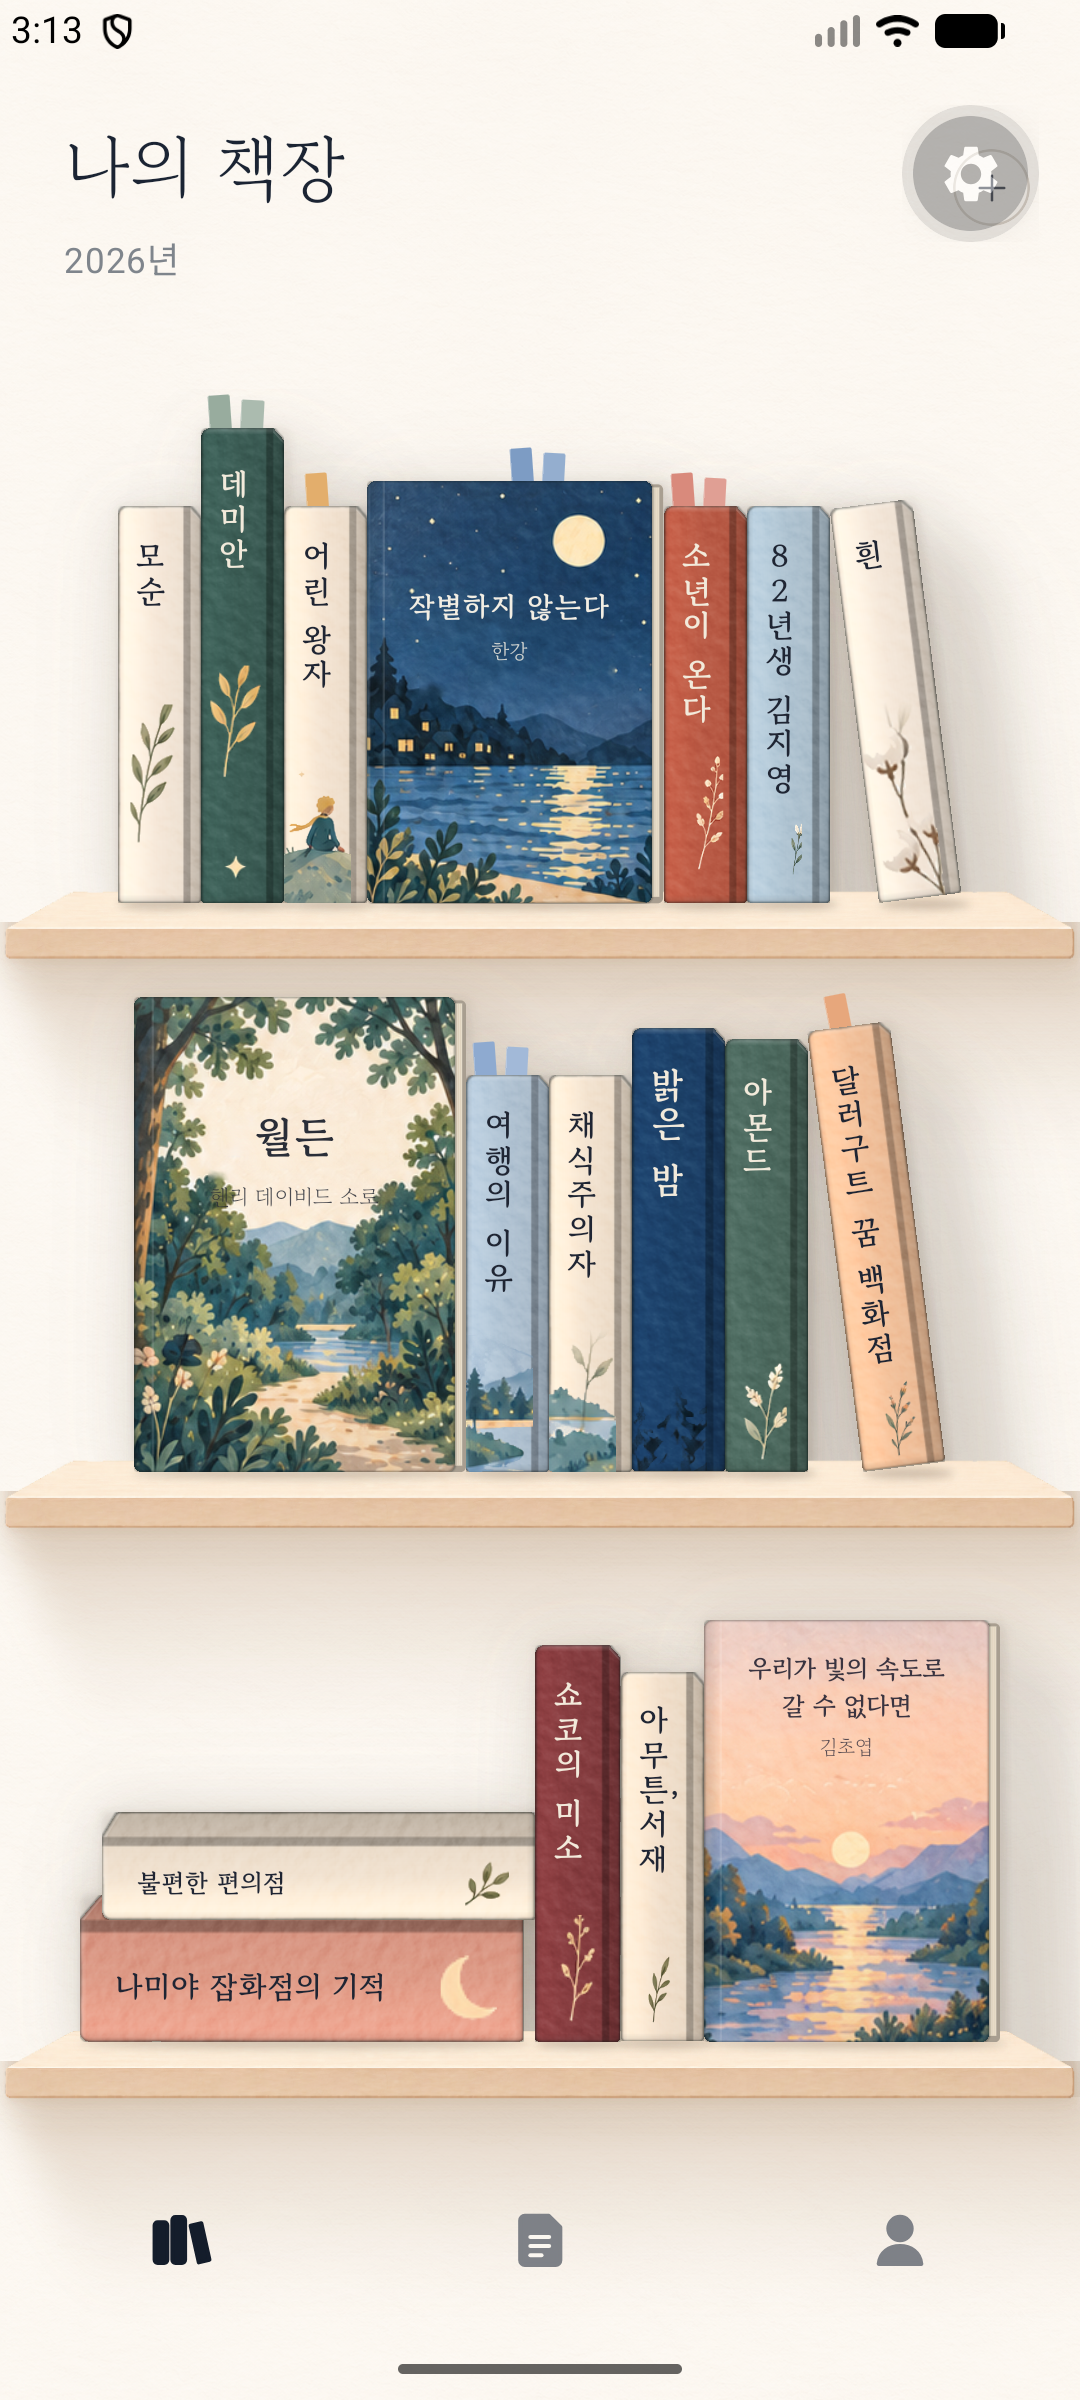
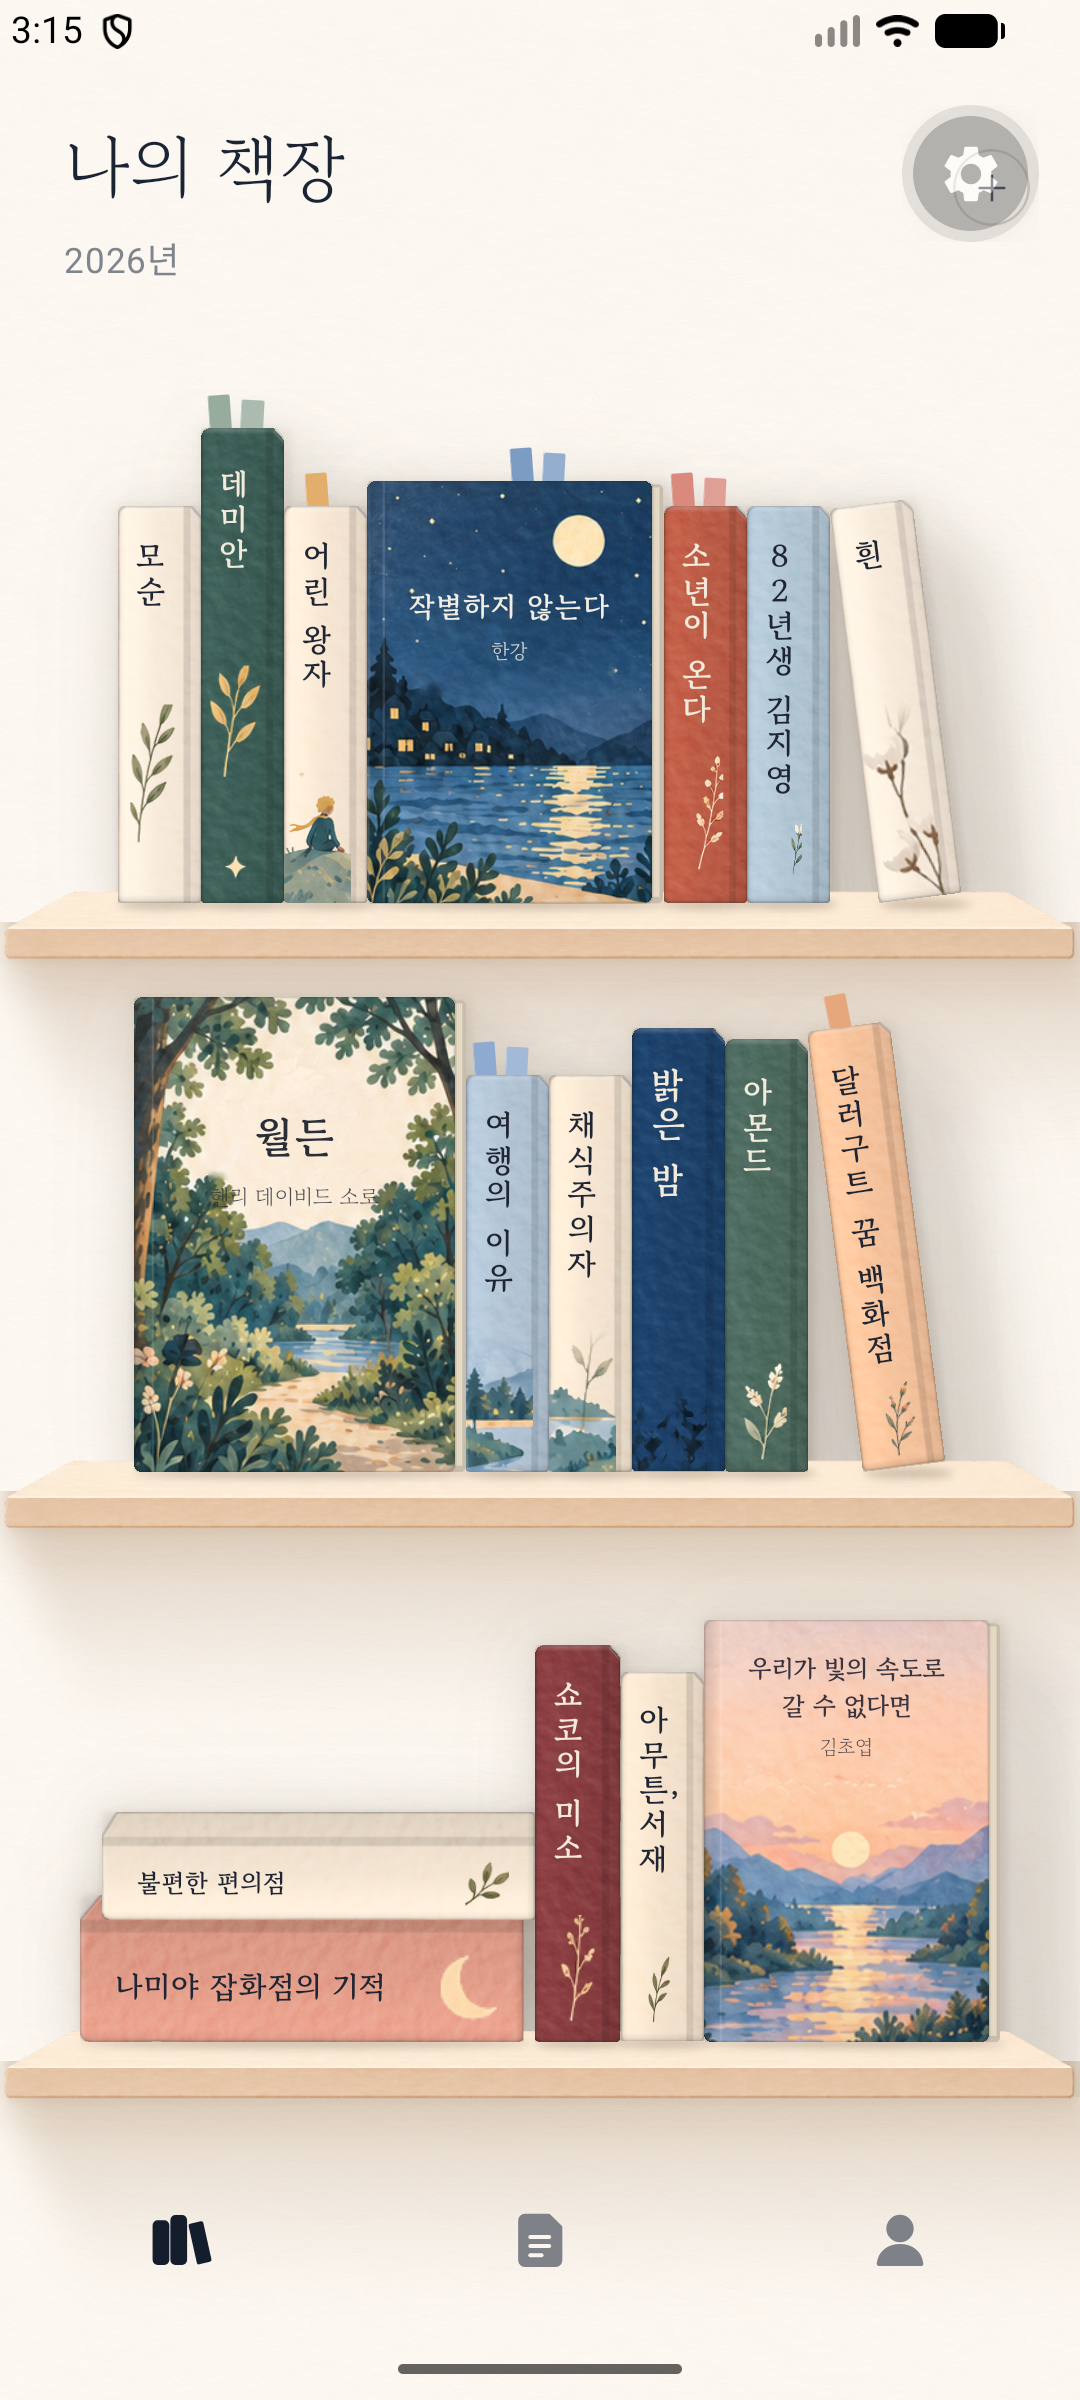
책등 홈·옆면·테두리 명암 연하게

diff --git a/app/src/ui/book/BookBody.tsx b/app/src/ui/book/BookBody.tsx
@@ -41,18 +41,19 @@ function scaleColor(hex: string, k: number) {
 // 앞면·홈·옆면의 가로 명암(위치: 책 폭 비율, 값: 밝기 배율). side = 옆면 시작 비율.
 export function spineProfile(side: number): [number, number][] {
   const f = side - 0.095; // 앞면 끝
+  // 홈·옆면은 형태가 읽힐 만큼만 어둡게(너무 진하면 책마다 검은 띠처럼 보인다)
   return [
-    [0, 0.8],
+    [0, 0.9],
     [0.035, 1.0],
-    [0.08, 1.05],
+    [0.08, 1.04],
     [0.3 * f, 1.03],
-    [0.6 * f, 0.98],
-    [f, 0.95],
-    [f + 0.02, 0.66],
-    [side - 0.01, 0.64],
-    [side + 0.01, 0.82],
-    [0.975, 0.78],
-    [1, 0.64],
+    [0.6 * f, 0.99],
+    [f, 0.97],
+    [f + 0.02, 0.86],
+    [side - 0.01, 0.85],
+    [side + 0.01, 0.93],
+    [0.975, 0.91],
+    [1, 0.84],
   ];
 }
 
@@ -150,7 +151,7 @@ function SpineSkin({ id, w, h, s, face, side, grain }: { id: string; w: number; 
           <LinearGradient start={vec(0, h - 3 * s)} end={vec(0, h)} colors={['rgba(0,0,0,0)', 'rgba(0,0,0,0.12)']} />
         </Rect>
       </Group>
-      <Path path={outline} style="stroke" strokeWidth={0.9 * s} color="rgba(20, 26, 24, 0.42)">
+      <Path path={outline} style="stroke" strokeWidth={0.8 * s} color="rgba(20, 26, 24, 0.24)">
         <BlurMask blur={0.3 * s} style="normal" />
       </Path>
     </Group>
@@ -257,7 +258,7 @@ export const CoverBody = memo(function CoverBody({
   return (
     <Canvas style={{ width: fw + side, height: h }}>
       {/* 속지 단면(뒤표지판 + 종이) */}
-      <RoundedRect x={fw - 3 * s} y={1.2 * s} width={side + 3 * s} height={h - 1.2 * s} r={2 * s} color={scaleColor(face, 0.72)} />
+      <RoundedRect x={fw - 3 * s} y={1.2 * s} width={side + 3 * s} height={h - 1.2 * s} r={2 * s} color={scaleColor(face, 0.86)} />
       <Rect x={fw - 1 * s} y={2.4 * s} width={side - 0.4 * s} height={h - 4.8 * s} color={PAGE} />
       {Array.from({ length: lines }, (_, i) => (
         <Rect key={i} x={fw - 1 * s + ((i + 1) * (side - 0.4 * s)) / (lines + 1)} y={2.4 * s} width={0.5} height={h - 4.8 * s} color={PAGE_LINE} />
@@ -276,7 +277,7 @@ export const CoverBody = memo(function CoverBody({
           <LinearGradient start={vec(0, 0)} end={vec(fw, h)} colors={['rgba(255,255,255,0.08)', 'rgba(255,255,255,0)', 'rgba(0,0,0,0.08)']} positions={[0, 0.45, 1]} />
         </Rect>
       </Group>
-      <Path path={outline} style="stroke" strokeWidth={0.9 * s} color="rgba(20, 26, 24, 0.35)">
+      <Path path={outline} style="stroke" strokeWidth={0.8 * s} color="rgba(20, 26, 24, 0.22)">
         <BlurMask blur={0.3 * s} style="normal" />
       </Path>
     </Canvas>
